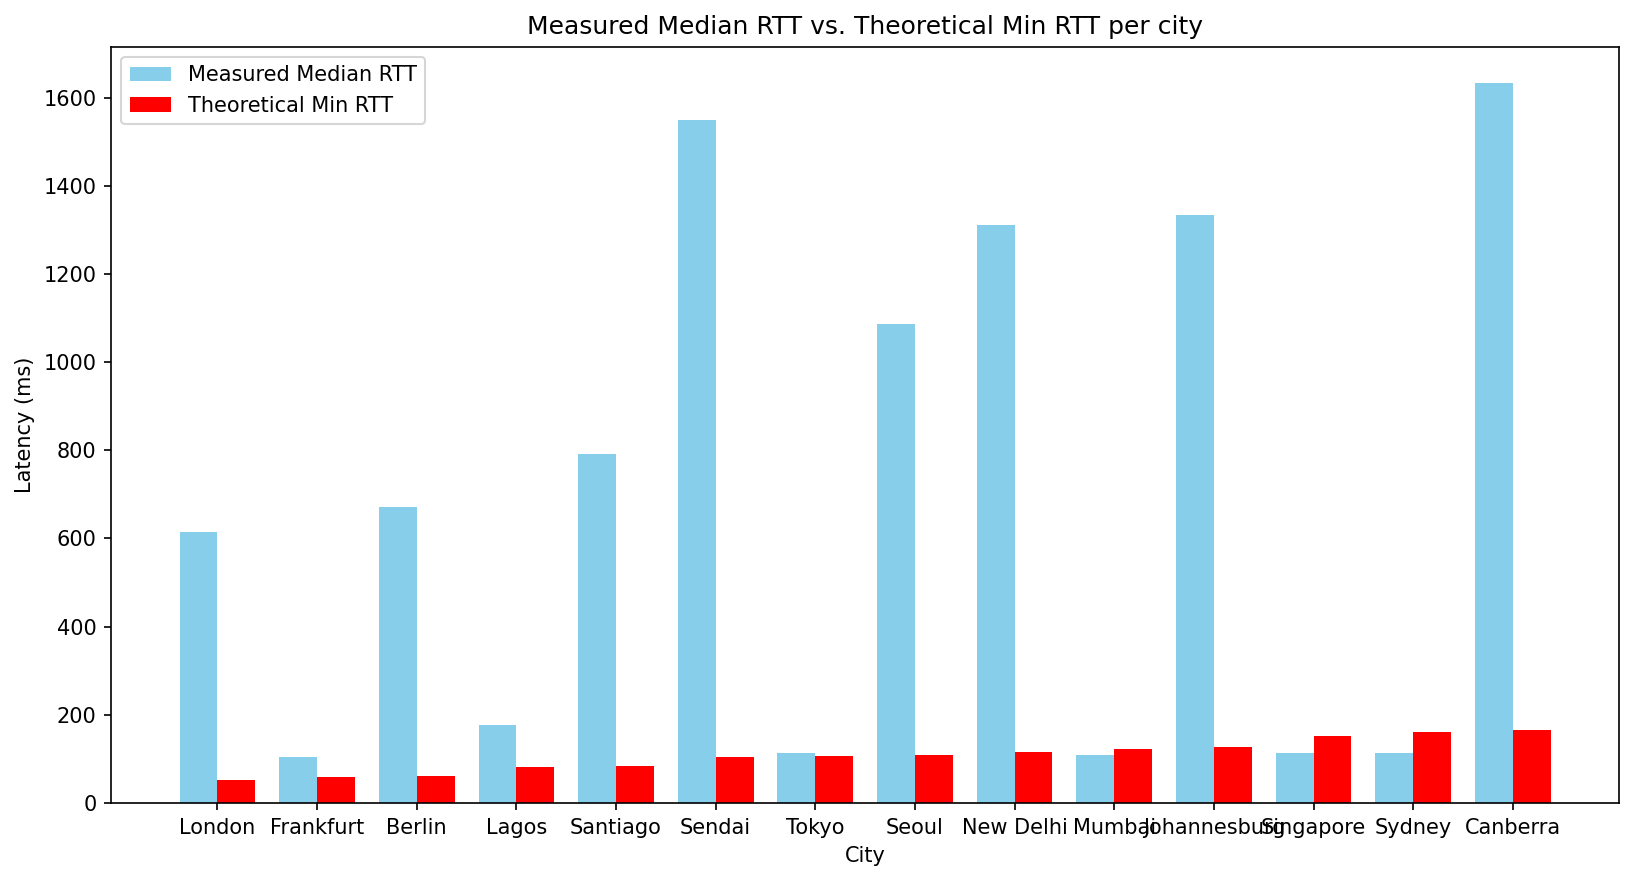
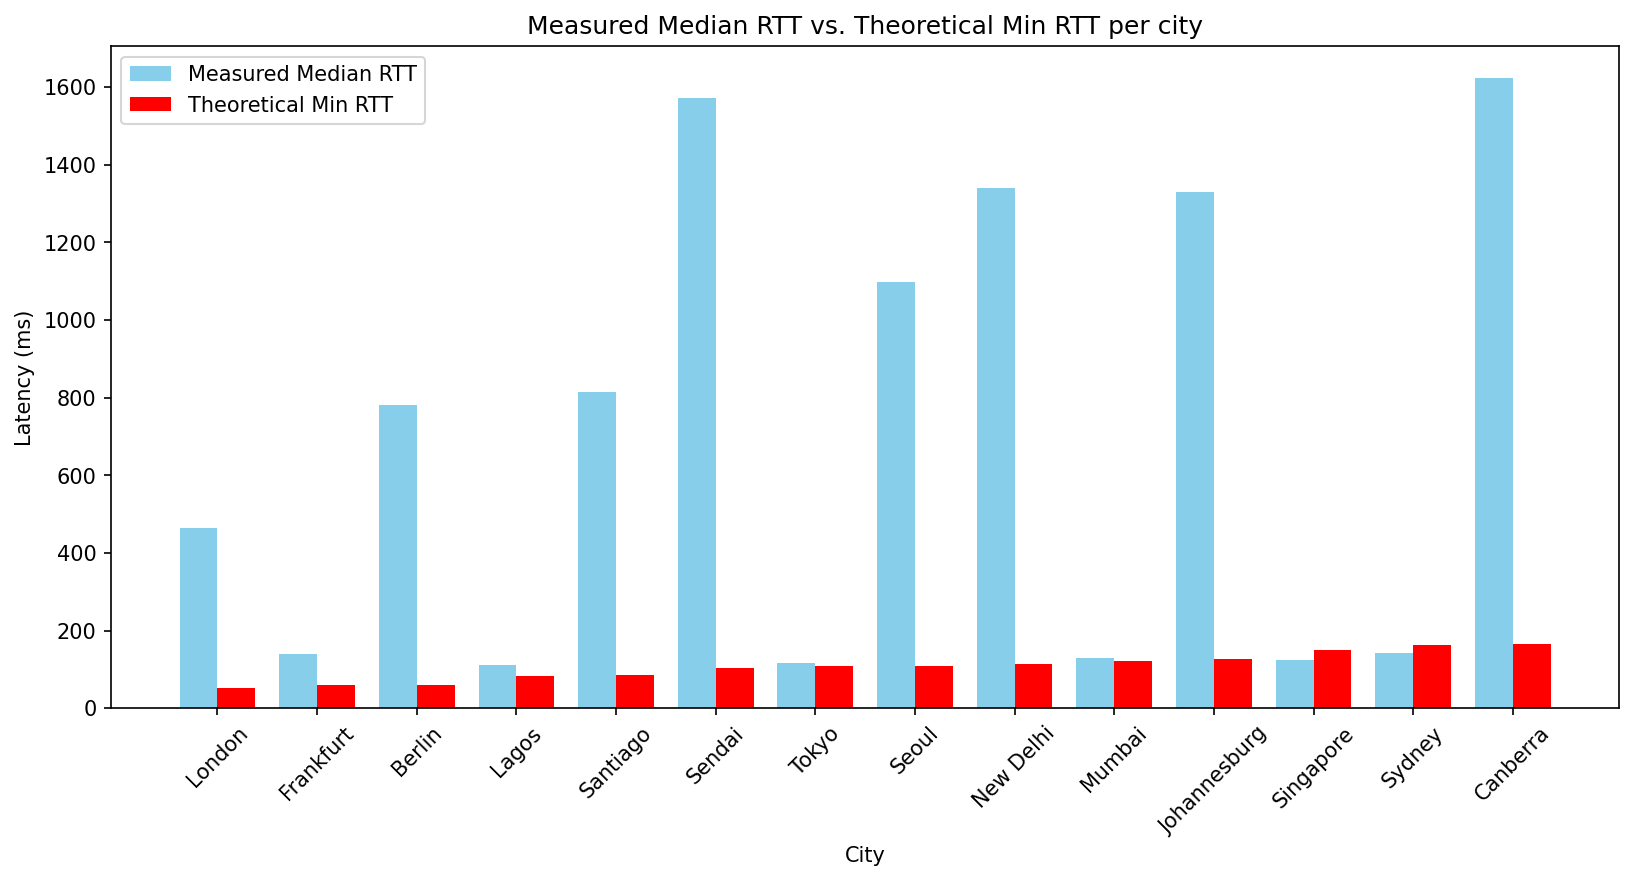
c4

diff --git a/rtt_speedoflight.py b/rtt_speedoflight.py
@@ -232,7 +232,7 @@ def make_plots(results: dict):
     ax.set_ylabel('Latency (ms)')
     ax.set_xlabel('City')
     ax.set_xticks(x)
-    ax.set_xticklabels(cities)
+    ax.set_xticklabels(cities, rotation = 45)
     ax.legend()
     
     plt.tight_layout()
